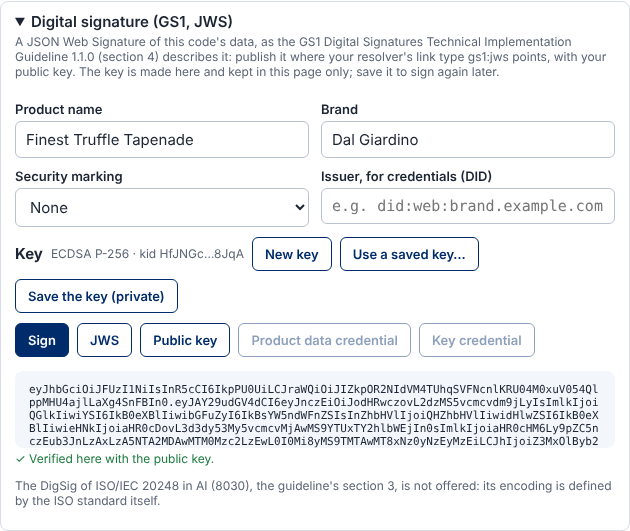
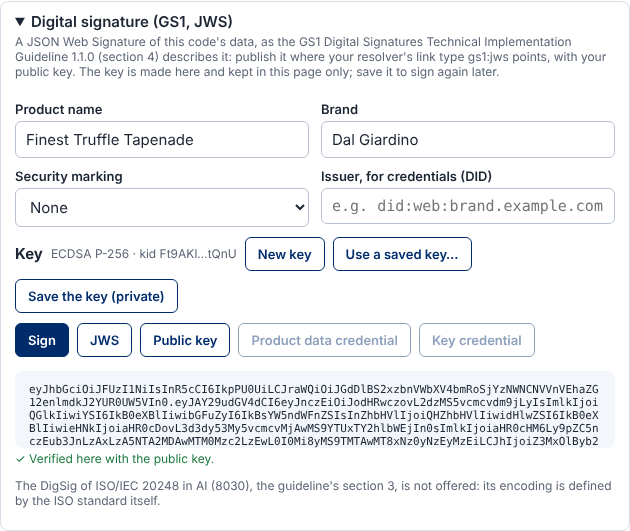
docs: the screenshots retaken, with the tour at its second stop in the user guide
Claude-Session: https://claude.ai/code/session_01AV1ostaeXtQvKivxYBaSJk

Changed region(s): [[0.2413, 0.452, 0.754, 0.5122], [0.5429, 0.7232, 0.9651, 0.7533], [0.0302, 0.7232, 0.2413, 0.7834]]

diff --git a/apps/web/screenshots/guide.spec.ts b/apps/web/screenshots/guide.spec.ts
@@ -51,6 +51,14 @@ test("the assistant: a question, and the summary", async ({ page }) => {
   await shot(page, "assistant-summary");
 });
 
+test("the tour: step 2 pointed out", async ({ page }) => {
+  await page.getByRole("button", { name: "Tour", exact: true }).click();
+  await page.locator(".tour-card").getByRole("button", { name: "Next" }).click();
+  await expect(page.locator(".tour-card")).toHaveAttribute("data-stop", "scan");
+  await page.waitForTimeout(400); // the ring's move
+  await shot(page, "tour");
+});
+
 test("step 1: what the code identifies", async ({ page }) => {
   await paste(page, "]d2010950600013435210ABC123{GS}17271200");
   await expect(page.locator(".status")).toContainText("day 00");

diff --git a/docs/user-guide.md b/docs/user-guide.md
@@ -127,6 +127,8 @@ value is replaced with yours*.
 
 ### The tour
 
+![The tour at its second stop: step 2 ringed in amber, the rest of the page dimmed, a card beside it](images/guide/tour.png)
+
 The **Tour** button in the header (on a phone or a tablet, **Take the tour** in *More*) points out the steps and the main
 buttons one at a time: the rest of the page is dimmed, the part shown is ringed in amber, and a card beside it says what
 it is for, with *1 of 9*, **Skip the tour**, **Back** and **Next** (**Done** at the last). On a computer it shows step 1,
